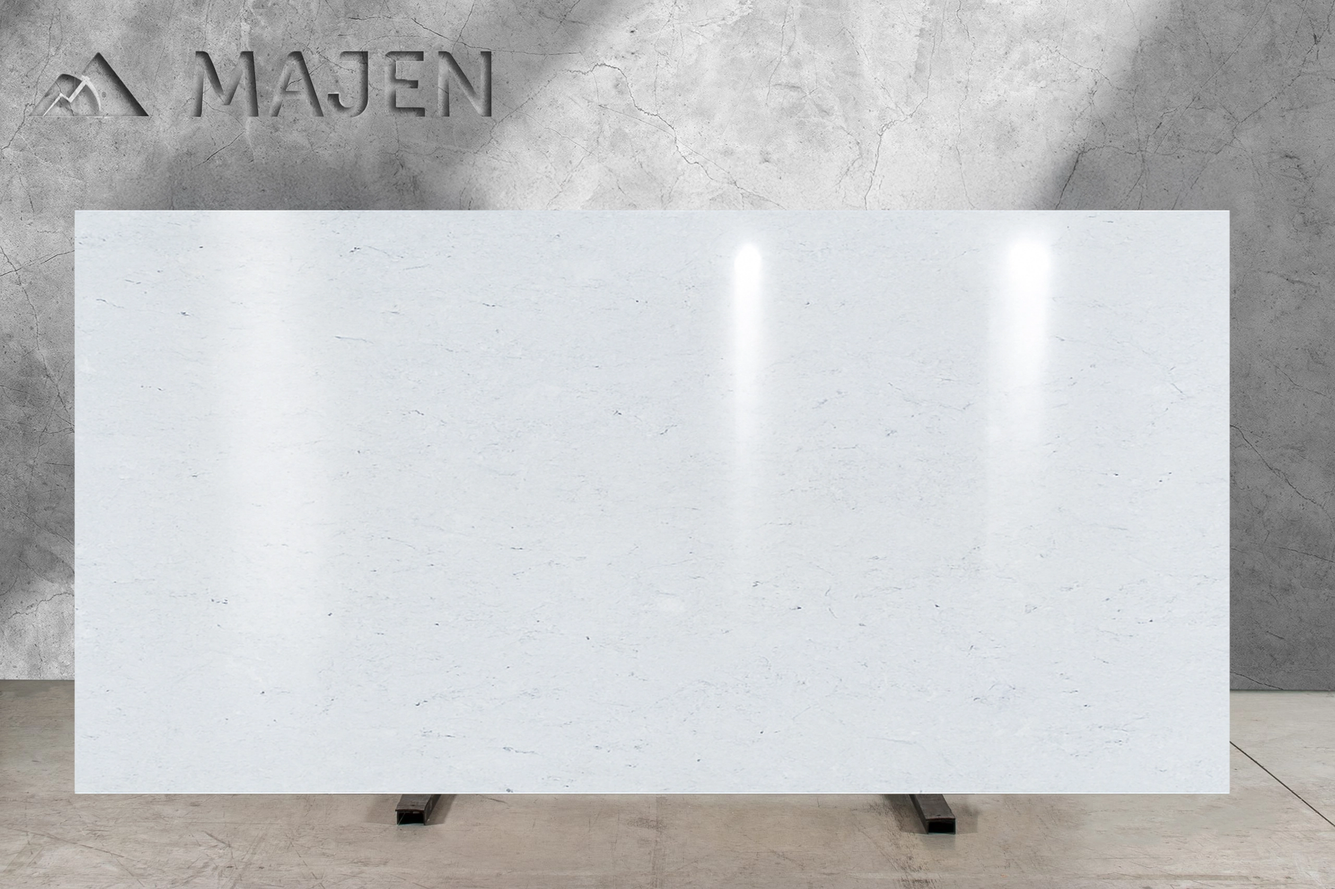
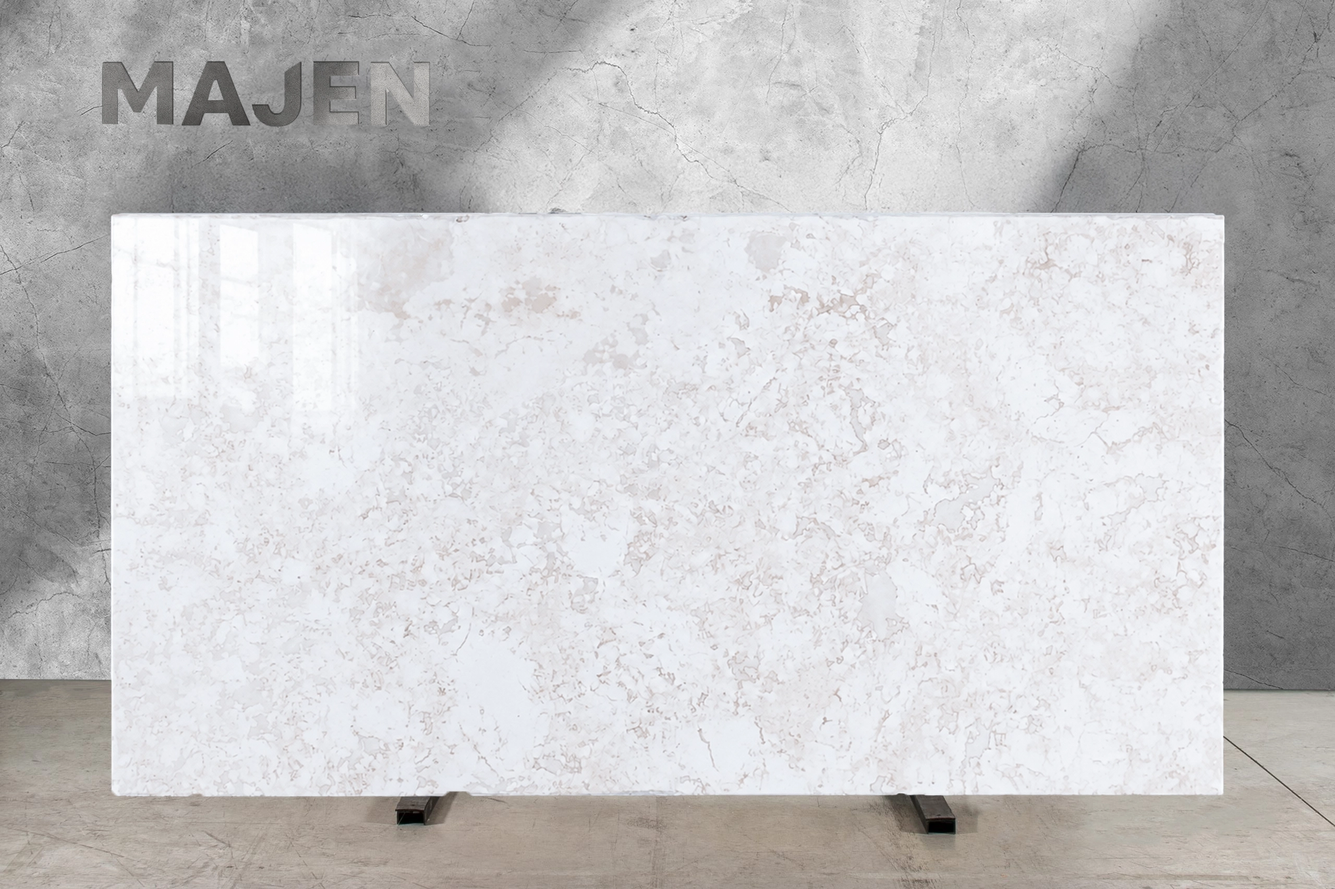
update slab images

diff --git a/client/app/[locale]/(catalog)/_images.js b/client/app/[locale]/(catalog)/_images.js
@@ -162,9 +162,10 @@ import galleryLightVeincutUnfilledPolished3 from "@/public/images/new/slab/light
 import galleryLightVeincutFilledPolished1 from "@/public/images/new/slab/light/gallery/lightVeincutFilledPolished.webp"
 import galleryLightVeincutFilledPolished2 from "@/public/images/new/slab/light/gallery/lightVeincutFilledPolished2.webp"
 import galleryLightVeincutFilledPolished3 from "@/public/images/new/slab/light/gallery/lightVeincutFilledPolished3.webp"
-import galleryLightCrosscutFilledPolished1 from "@/public/images/new/slab/light/gallery/lightCrosscutFilledPolished.webp"
+import galleryLightCrosscutFilledPolished1 from "@/public/images/new/slab/light/Lightcrosspolishedfilled2.webp"
 import galleryLightCrosscutFilledPolished2 from "@/public/images/new/slab/light/gallery/lightCrosscutFilledPolished2.webp"
 import galleryLightCrosscutFilledPolished3 from "@/public/images/new/slab/light/gallery/lightCrosscutFilledPolished3.webp"
+import galleryLightCrosscutFilledPolished4 from "@/public/images/new/slab/light/gallery/lightCrosscutFilledPolished.webp"
 import galleryLightCrosscutUnfilledPolished1 from "@/public/images/new/slab/light/gallery/lightCrosscutUnfilledPolished.webp"
 import galleryLightCrosscutUnfilledPolished2 from "@/public/images/new/slab/light/gallery/lightCrosscutUnfilledPolished2.webp"
 import galleryLightCrosscutUnfilledPolished3 from "@/public/images/new/slab/light/gallery/lightCrosscutUnfilledPolished3.webp"
@@ -184,9 +185,10 @@ import galleryAnticoVeincutUnfilledPolished2 from "@/public/images/new/slab/anti
 import galleryAnticoVeincutUnfilledPolished3 from "@/public/images/new/slab/antico/gallery/anticoVeincutUnfilledPolished3.webp"
 
 
-import galleryIvoryCrosscutFilledPolished1 from "@/public/images/new/slab/ivory/gallery/ivoryCrossFilledPolished.webp"
+import galleryIvoryCrosscutFilledPolished1 from "@/public/images/new/slab/ivory/Ivorycrosspolishedfilled2.webp"
 import galleryIvoryCrosscutFilledPolished2 from "@/public/images/new/slab/ivory/gallery/ivoryCrossFilledPolished2.webp"
 import galleryIvoryCrosscutFilledPolished3 from "@/public/images/new/slab/ivory/gallery/ivoryCrossFilledPolished3.webp"
+import galleryIvoryCrosscutFilledPolished4 from "@/public/images/new/slab/ivory/gallery/ivoryCrossFilledPolished.webp"
 import galleryIvoryCrosscutUnfilledPolished1 from "@/public/images/new/slab/ivory/gallery/ivoryCrossUnfilledPolished.webp"
 import galleryIvoryCrosscutUnfilledPolished2 from "@/public/images/new/slab/ivory/gallery/ivoryCrossUnfilledPolished2.webp"
 import galleryIvoryCrosscutUnfilledPolished3 from "@/public/images/new/slab/ivory/gallery/ivoryCrossUnfilledPolished3.webp"
@@ -212,9 +214,10 @@ import galleryAnticoVeincutUnfilledBrushed2 from "@/public/images/new/slab/antic
 import galleryAnticoVeincutUnfilledBrushed3 from "@/public/images/new/slab/antico/gallery/anticoVeincutUnfilledBrushed3.webp"
 
 
-import galleryIvoryCrosscutFilledBrushed1 from "@/public/images/new/slab/ivory/gallery/ivoryCrosscutFilledBrushed.webp"
+import galleryIvoryCrosscutFilledBrushed1 from "@/public/images/new/slab/ivory/Ivorybrushedfilledcrosscut2.webp"
 import galleryIvoryCrosscutFilledBrushed2 from "@/public/images/new/slab/ivory/gallery/ivoryCrosscutFilledBrushed2.webp"
 import galleryIvoryCrosscutFilledBrushed3 from "@/public/images/new/slab/ivory/gallery/ivoryCrosscutFilledBrushed3.webp"
+import galleryIvoryCrosscutFilledBrushed4 from "@/public/images/new/slab/ivory/gallery/ivoryCrosscutFilledBrushed.webp"
 import galleryIvoryCrosscutUnfilledBrushed1 from "@/public/images/new/slab/ivory/gallery/ivoryCrosscutUnfilledBrushed.webp"
 import galleryIvoryCrosscutUnfilledBrushed2 from "@/public/images/new/slab/ivory/gallery/ivoryCrosscutUnfilledBrushed2.webp"
 import galleryIvoryCrosscutUnfilledBrushed3 from "@/public/images/new/slab/ivory/gallery/ivoryCrosscutUnfilledBrushed3.webp"
@@ -226,12 +229,14 @@ import galleryIvoryVeincutUnfilledBrushed2 from "@/public/images/new/slab/ivory/
 import galleryIvoryVeincutUnfilledBrushed3 from "@/public/images/new/slab/ivory/gallery/ivoryVeincutUnfilledBrushed3.webp"
 
 
-import galleryLightCrosscutFilledBrushed1 from "@/public/images/new/slab/light/gallery/lightCrosscutFilledBrushed.webp"
+import galleryLightCrosscutFilledBrushed1 from "@/public/images/new/slab/light/lightbrushedcrossfilled2.webp"
 import galleryLightCrosscutFilledBrushed2 from "@/public/images/new/slab/light/gallery/lightCrosscutFilledBrushed2.webp"
 import galleryLightCrosscutFilledBrushed3 from "@/public/images/new/slab/light/gallery/lightCrosscutFilledBrushed3.webp"
-import galleryLightCrosscutUnfilledBrushed1 from "@/public/images/new/slab/light/gallery/lightCrosscutUnfilledBrushed.webp"
+import galleryLightCrosscutFilledBrushed4 from "@/public/images/new/slab/light/gallery/lightCrosscutFilledBrushed.webp"
+import galleryLightCrosscutUnfilledBrushed1 from "@/public/images/new/slab/light/lightbrushedcrossunfilled2.webp"
 import galleryLightCrosscutUnfilledBrushed2 from "@/public/images/new/slab/light/gallery/lightCrosscutUnfilledBrushed2.webp"
 import galleryLightCrosscutUnfilledBrushed3 from "@/public/images/new/slab/light/gallery/lightCrosscutUnfilledBrushed3.webp"
+import galleryLightCrosscutUnfilledBrushed4 from "@/public/images/new/slab/light/gallery/lightCrosscutUnfilledBrushed.webp"
 import galleryLightVeincutFilledBrushed1 from "@/public/images/new/slab/light/gallery/lightVeincutFilledBrushed.webp"
 import galleryLightVeincutFilledBrushed2 from "@/public/images/new/slab/light/gallery/lightVeincutFilledBrushed2.webp"
 import galleryLightVeincutFilledBrushed3 from "@/public/images/new/slab/light/gallery/lightVeincutFilledBrushed3.webp"
@@ -253,9 +258,12 @@ import galleryAnticoVeincutUnfilledHoned1 from "@/public/images/new/slab/antico/
 import galleryAnticoVeincutUnfilledHoned2 from "@/public/images/new/slab/antico/gallery/anticoVeincutUnfilledHoned2.webp"
 import galleryAnticoVeincutUnfilledHoned3 from "@/public/images/new/slab/antico/gallery/anticoVeincutUnfilledHoned3.webp"
 
-import galleryIvoryCrosscutFilledHoned1 from "@/public/images/new/slab/ivory/gallery/ivoryCrosscutFilledHoned.webp"
+import galleryIvoryCrosscutFilledHoned1 from "@/public/images/new/slab/ivory/Ivorcrosshonedfilled2.webp"
+// import galleryIvoryCrosscutFilledHoned1 from "@/public/images/new/slab/ivory/gallery/ivoryCrosscutFilledHoned.webp"
 import galleryIvoryCrosscutFilledHoned2 from "@/public/images/new/slab/ivory/gallery/ivoryCrosscutFilledHoned2.webp"
 import galleryIvoryCrosscutFilledHoned3 from "@/public/images/new/slab/ivory/gallery/ivoryCrosscutFilledHoned3.webp"
+import galleryIvoryCrosscutFilledHoned4 from "@/public/images/new/slab/ivory/gallery/ivoryCrosscutFilledHoned.webp"
+
 import galleryIvoryCrosscutUnfilledHoned1 from "@/public/images/new/slab/ivory/gallery/ivoryCrosscutUnfilledHoned.webp"
 import galleryIvoryCrosscutUnfilledHoned2 from "@/public/images/new/slab/ivory/gallery/ivoryCrosscutUnfilledHoned2.webp"
 import galleryIvoryCrosscutUnfilledHoned3 from "@/public/images/new/slab/ivory/gallery/ivoryCrosscutUnfilledHoned3.webp"
@@ -266,9 +274,10 @@ import galleryIvoryVeincutUnfilledHoned1 from "@/public/images/new/slab/ivory/ga
 import galleryIvoryVeincutUnfilledHoned2 from "@/public/images/new/slab/ivory/gallery/ivoryVeincutUnfilledHoned2.webp"
 import galleryIvoryVeincutUnfilledHoned3 from "@/public/images/new/slab/ivory/gallery/ivoryVeincutUnfilledHoned3.webp"
 
-import galleryLightCrosscutFilledHoned1 from "@/public/images/new/slab/light/gallery/lightCrosscutFilledHoned.webp"
+import galleryLightCrosscutFilledHoned1 from "@/public/images/new/slab/light/lightcrosshonedfilled2.webp"
 import galleryLightCrosscutFilledHoned2 from "@/public/images/new/slab/light/gallery/lightCrosscutFilledHoned2.webp"
 import galleryLightCrosscutFilledHoned3 from "@/public/images/new/slab/light/gallery/lightCrosscutFilledHoned3.webp"
+import galleryLightCrosscutFilledHoned4 from "@/public/images/new/slab/light/gallery/lightCrosscutFilledHoned2.webp"
 import galleryLightCrosscutUnfilledHoned1 from "@/public/images/new/slab/light/gallery/lightCrosscutUnfilledHoned.webp"
 import galleryLightCrosscutUnfilledHoned2 from "@/public/images/new/slab/light/gallery/lightCrosscutUnfilledHoned2.webp"
 import galleryLightCrosscutUnfilledHoned3 from "@/public/images/new/slab/light/gallery/lightCrosscutUnfilledHoned3.webp"
@@ -293,9 +302,10 @@ import galleryAnticoVeincutUnfilledTumbled1 from "@/public/images/new/slab/antic
 import galleryAnticoVeincutUnfilledTumbled2 from "@/public/images/new/slab/antico/gallery/anticoVeincutUnfilledTumbled2.webp"
 import galleryAnticoVeincutUnfilledTumbled3 from "@/public/images/new/slab/antico/gallery/anticoVeincutUnfilledTumbled3.webp"
 
-import galleryIvoryCrosscutFilledTumbled1 from "@/public/images/new/slab/ivory/gallery/ivoryCrosscutFilledTumbled.webp"
-import galleryIvoryCrosscutFilledTumbled2 from "@/public/images/new/slab/ivory/gallery/ivoryCrosscutFilledTumbled2.webp"
+import galleryIvoryCrosscutFilledTumbled1 from "@/public/images/new/slab/ivory/Ivorycrosstumbledfilled2.webp"
+import galleryIvoryCrosscutFilledTumbled2 from "@/public/images/new/slab/ivory/gallery/ivoryCrosscutFilledTumbled.webp"
 import galleryIvoryCrosscutFilledTumbled3 from "@/public/images/new/slab/ivory/gallery/ivoryCrosscutFilledTumbled3.webp"
+import galleryIvoryCrosscutFilledTumbled4 from "@/public/images/new/slab/ivory/gallery/ivoryCrosscutFilledTumbled2.webp"
 import galleryIvoryCrosscutUnfilledTumbled1 from "@/public/images/new/slab/ivory/gallery/ivoryCrosscutUnfilledTumbled.webp"
 import galleryIvoryCrosscutUnfilledTumbled2 from "@/public/images/new/slab/ivory/gallery/ivoryCrosscutUnfilledTumbled2.webp"
 import galleryIvoryCrosscutUnfilledTumbled3 from "@/public/images/new/slab/ivory/gallery/ivoryCrosscutUnfilledTumbled3.webp"
@@ -306,9 +316,10 @@ import galleryIvoryVeincutUnfilledTumbled1 from "@/public/images/new/slab/ivory/
 import galleryIvoryVeincutUnfilledTumbled2 from "@/public/images/new/slab/ivory/gallery/ivoryVeincutUnfilledTumbled2.webp"
 import galleryIvoryVeincutUnfilledTumbled3 from "@/public/images/new/slab/ivory/gallery/ivoryVeincutUnfilledTumbled3.webp"
 
-import galleryLightCrosscutFilledTumbled1 from "@/public/images/new/slab/light/gallery/lightCrosscutFilledTumbled.webp"
+import galleryLightCrosscutFilledTumbled1 from "@/public/images/new/slab/light/lightcrosstumbledfilled2.webp"
 import galleryLightCrosscutFilledTumbled2 from "@/public/images/new/slab/light/gallery/lightCrosscutFilledTumbled2.webp"
 import galleryLightCrosscutFilledTumbled3 from "@/public/images/new/slab/light/gallery/lightCrosscutFilledTumbled3.webp"
+import galleryLightCrosscutFilledTumbled4 from "@/public/images/new/slab/light/gallery/lightCrosscutFilledTumbled.webp"
 import galleryLightCrosscutUnfilledTumbled1 from "@/public/images/new/slab/light/gallery/lightCrosscutUnfilledTumbled.webp"
 import galleryLightCrosscutUnfilledTumbled2 from "@/public/images/new/slab/light/gallery/lightCrosscutUnfilledTumbled2.webp"
 import galleryLightCrosscutUnfilledTumbled3 from "@/public/images/new/slab/light/gallery/lightCrosscutUnfilledTumbled3.webp"
@@ -1209,7 +1220,7 @@ export const IMAGE_BY_PRODUCT = {
         },
         "unfilled:brushed": {
           ivory:  [slabIvoryVeincutBrushedUnfilled, galleryIvoryVeincutUnfilledBrushed1, galleryIvoryVeincutUnfilledBrushed2, galleryIvoryVeincutUnfilledBrushed3],
-          light:  [slabLightVeincutBrushedFilled, galleryLightVeincutUnfilledBrushed1, galleryLightVeincutUnfilledBrushed2, galleryLightVeincutUnfilledBrushed3],
+          light:  [slabLightVeincutBrushedUnfilled, galleryLightVeincutUnfilledBrushed1, galleryLightVeincutUnfilledBrushed2, galleryLightVeincutUnfilledBrushed3],
           antico: [slabAnticoVeincutBrushedFilled, galleryAnticoVeincutUnfilledBrushed1, galleryAnticoVeincutUnfilledBrushed2, galleryAnticoVeincutUnfilledBrushed3],
         },
            "filled:polished": {
@@ -1237,8 +1248,8 @@ export const IMAGE_BY_PRODUCT = {
 
       "cross-cut": {
          "filled:honed": {
-           ivory:  [slabIvoryCrossHonedFilled,galleryIvoryCrosscutFilledHoned1,galleryIvoryCrosscutFilledHoned2, galleryIvoryCrosscutFilledHoned3],
-          light:  [slabLightCrosscutHonedFilled,galleryLightCrosscutFilledHoned1,galleryLightCrosscutFilledHoned2, galleryLightCrosscutFilledHoned3],
+           ivory:  [slabIvoryCrossHonedFilled,galleryIvoryCrosscutFilledHoned1,galleryIvoryCrosscutFilledHoned2, galleryIvoryCrosscutFilledHoned3, galleryIvoryCrosscutFilledHoned4],
+          light:  [slabLightCrosscutHonedFilled,galleryLightCrosscutFilledHoned1,galleryLightCrosscutFilledHoned2, galleryLightCrosscutFilledHoned3, galleryLightCrosscutFilledHoned4],
           antico: [slabAnticoCrossHonedFilled,galleryAnticoCrosscutFilledHoned1,galleryAnticoCrosscutFilledHoned2, galleryAnticoCrosscutFilledHoned3],
         },
         "unfilled:honed": {
@@ -1252,8 +1263,8 @@ export const IMAGE_BY_PRODUCT = {
           antico: "/images/cut/antico/filling/Veincut/Antikfillingveincutpolished.webp",
         },
        "filled:tumbled": {
-           ivory:  [slabIvoryCrossTumbledFilled,galleryIvoryCrosscutFilledTumbled1,galleryIvoryCrosscutFilledTumbled2, galleryIvoryCrosscutFilledTumbled3],
-          light:  [slabLightCrosscutTumbledFilled,galleryLightCrosscutFilledTumbled1,galleryLightCrosscutFilledTumbled2, galleryLightCrosscutFilledTumbled3],
+           ivory:  [slabIvoryCrossTumbledFilled,galleryIvoryCrosscutFilledTumbled1,galleryIvoryCrosscutFilledTumbled2, galleryIvoryCrosscutFilledTumbled3, galleryIvoryCrosscutFilledTumbled4],
+          light:  [slabLightCrosscutTumbledFilled,galleryLightCrosscutFilledTumbled1,galleryLightCrosscutFilledTumbled2, , galleryLightCrosscutFilledTumbled3, galleryLightCrosscutFilledTumbled4],
           antico: [slabAnticoCrossTumbledFilled,galleryAnticoCrosscutFilledTumbled1,galleryAnticoCrosscutFilledTumbled2, galleryAnticoCrosscutFilledTumbled3],
         },
         "unfilled:tumbled": {
@@ -1262,18 +1273,18 @@ export const IMAGE_BY_PRODUCT = {
           antico: [slabAnticoCrossTumbledUnfilled,galleryAnticoCrosscutUnfilledTumbled1,galleryAnticoCrosscutUnfilledTumbled2, galleryAnticoCrosscutUnfilledTumbled3],
         },
         "filled:brushed": {
-         ivory: [slabIvoryCrosscutBrushedFilled,galleryIvoryCrosscutFilledBrushed1,galleryIvoryCrosscutFilledBrushed2, galleryIvoryCrosscutFilledBrushed3],
-          light:  [slabLightCrosscutBrushedFilled,galleryLightCrosscutFilledBrushed1,galleryLightCrosscutFilledBrushed2, galleryLightCrosscutFilledBrushed3],
+         ivory: [slabIvoryCrosscutBrushedFilled,galleryIvoryCrosscutFilledBrushed1,galleryIvoryCrosscutFilledBrushed2, galleryIvoryCrosscutFilledBrushed3, galleryIvoryCrosscutFilledBrushed4],
+          light:  [slabLightCrosscutBrushedFilled,galleryLightCrosscutFilledBrushed1,galleryLightCrosscutFilledBrushed2, galleryLightCrosscutFilledBrushed3,galleryLightCrosscutFilledBrushed4],
           antico: [slabAnticoCrosscutBrushedFilled,galleryAnticoCrosscutFilledBrushed1,galleryAnticoCrosscutFilledBrushed2,galleryAnticoCrosscutFilledBrushed3],
         },
         "unfilled:brushed": {
           ivory:  [slabIvoryCrosscutBrushedUnfilled,galleryIvoryCrosscutUnfilledBrushed1,galleryIvoryCrosscutUnfilledBrushed2, galleryIvoryCrosscutUnfilledBrushed3],
-          light:  [slabLightCrosscutBrushedUnfilled,galleryLightCrosscutUnfilledBrushed1,galleryLightCrosscutUnfilledBrushed2, galleryLightCrosscutUnfilledBrushed3],
+          light:  [slabLightCrosscutBrushedUnfilled,galleryLightCrosscutUnfilledBrushed1,galleryLightCrosscutUnfilledBrushed2, , galleryLightCrosscutUnfilledBrushed4],
           antico: [slabAnticoCrosscutBrushedUnfilled,galleryAnticoCrosscutUnfilledBrushed1,galleryAnticoCrosscutUnfilledBrushed2, galleryAnticoCrosscutUnfilledBrushed3],
         },
         "filled:polished": {
-          ivory:  [slabIvoryCrossPolishedFilled,galleryIvoryCrosscutFilledPolished1,galleryIvoryCrosscutFilledPolished2,galleryIvoryCrosscutFilledPolished3],
-          light:  [slabLightCrosscutPolishedFilled, galleryLightCrosscutFilledPolished1,galleryLightCrosscutFilledPolished2,galleryLightCrosscutFilledPolished3],
+          ivory:  [slabIvoryCrossPolishedFilled,galleryIvoryCrosscutFilledPolished1,galleryIvoryCrosscutFilledPolished2,galleryIvoryCrosscutFilledPolished3, galleryIvoryCrosscutFilledPolished4],
+          light:  [slabLightCrosscutPolishedFilled, galleryLightCrosscutFilledPolished1,galleryLightCrosscutFilledPolished2,galleryLightCrosscutFilledPolished3, galleryLightCrosscutFilledPolished4],
           antico:[slabAnticoCrossPolishedFilled,galleryAnticoCrosscutFilledPolished1,galleryAnticoCrosscutFilledPolished2,galleryAnticoCrosscutFilledPolished3],
         },
         "unfilled:polished": {
